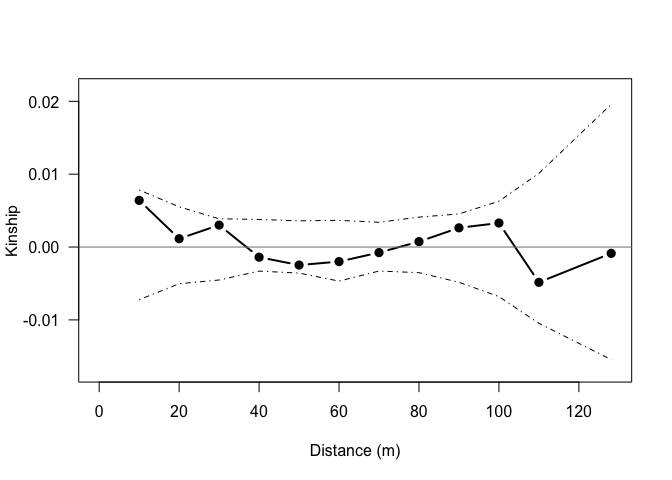
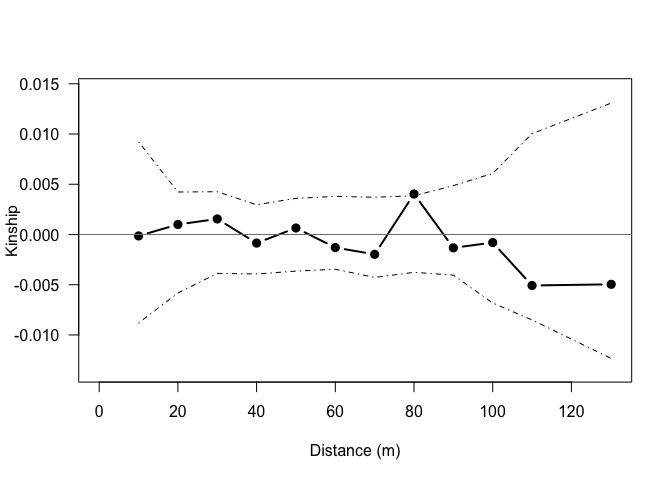
Update readme and ignore files

diff --git a/README.md b/README.md
@@ -31,7 +31,7 @@ Here's an example of a typical workflow...
 -   Input data into the sgs data structure using createSgsObj()
 -   Set desired distance intervals and number of permutations
 -   Run SGS analysis with sgs(), currently configured to run the kinship coefficient of Loiselle et al. 1995
--   use plotSgs() to make an autorcorrelation plot
+-   use plotSgs() to produce an autorcorrelation plot
 
 ``` r
 
@@ -57,45 +57,44 @@ library(sgsR)
     }
 
 ## Convert to sgsObj
-sgsObj = createSgsObj(sample_ids = dat$id, genotype_data = dat[, 4:(Nloci*2 + 3)],
-                    ploidy = 2,
-                    x_coords = dat$x, y_coords = dat$y)
-attributes(sgsObj)
-#> $names
-#>  [1] "ids"         "x"           "y"           "ploidy"      "Nind"       
-#>  [6] "Nloci"       "Ngenecopies" "gen_data"    "loci_names"  "gen_data_f" 
-#> [11] "Nallele"    
-#> 
-#> $class
-#> [1] "sgsObj"
+sgsObj = createSgsObj(sample_ids = dat$id, 
+                      genotype_data = dat[, 4:(Nloci*2 + 3)],
+                      ploidy = 2,
+                      x_coords = dat$x, 
+                      y_coords = dat$y)
 
 # Display genetic data
 head(sgsObj$gen_data)
 #>   Loc1_A Loc1_B Loc2_A Loc2_B Loc3_A Loc3_B Loc4_A Loc4_B Loc5_A Loc5_B
-#> 1      7      5      5      4     10      1      5      4      8      8
-#> 2      8      5      4      2      9      1      1     10     10      6
-#> 3      3      8      4      3      2     10      9      9      4      7
-#> 4      9      7      2      4      2      8      2      2     10     10
-#> 5      4      2      7     10      4      2      2      1     10      4
-#> 6      3      9      2      5      2      3      9      8      2      7
+#> 1      5      2      9      4      4      4      7      1      1      2
+#> 2      3      9     10     10      5      9      9      4     10      6
+#> 3      5      2      8      4     10      9      2      9      5      3
+#> 4      7      5     10      6     10      2     10      1      6      6
+#> 5      8      5      3      6      4      7      1      3      9      5
+#> 6      4      4      4     10      8      5      5      6      5      5
 #>   Loc6_A Loc6_B Loc7_A Loc7_B Loc8_A Loc8_B Loc9_A Loc9_B Loc10_A Loc10_B
-#> 1      1      7     10      9      7      9      8      6       5       6
-#> 2     10      2      2      8      3      8      4      9       8       4
-#> 3      4      7      7      6      1      1      5      4       1       5
-#> 4      6      6      4      9      2      4      6      1       6       6
-#> 5      8      8      1      1      2      5      4     10       3       9
-#> 6      9      7      6      3      5     10      3      3      10      10
+#> 1      5      9      5      5      3      3      2      2       2       6
+#> 2      8     10      1      9      4      8      4      9       5       6
+#> 3      2     10     10      7      5      8      7     10       7       9
+#> 4      2      8      8      1      4      2      4      7       4       4
+#> 5      5      9      1      3      7      8     10      2       3       9
+#> 6      8      6      9      3      8      4     10      9       1       8
 
 
 ## Run analysis
 distance_intervals = seq(10, 110, 10) # Set distance intervals
 
 out1 = sgs(sgsObj = sgsObj, distance_intervals = distance_intervals, nperm = 99)
-#> Adding an aditional distance interval -- 128.0867 -- to encompass all pairwise distances.. 
+#> Adding an aditional distance interval -- 130.1137 -- to encompass all pairwise distances.. 
 #> Working on permutation: 0...
 
+
+
+
+## Plotting results
+
 ## Solid line is Fij estimate for each distance class
-## Dashed lines are the 2.5 % and 97.5 % quantiles for permuted values
+## Dashed lines are the 2.5 % and 97.5 % quantiles of the permuted values
 plotSgs(out1)
 ```
 
@@ -104,61 +103,44 @@ plotSgs(out1)
 ``` r
 
 # Summary of information on distance classes
-out1$DIsummary
-#>                        [,1]      [,2]      [,3]      [,4]     [,5]
-#> Distance class     0.000000   1.00000   2.00000   3.00000   4.0000
-#> Max distance      10.000000  20.00000  30.00000  40.00000  50.0000
-#> Average distance   6.241301  15.40722  25.35529  35.23155  45.0197
-#> Number of pairs  155.000000 376.00000 568.00000 663.00000 751.0000
-#>                       [,6]      [,7]     [,8]      [,9]    [,10]    [,11]
-#> Distance class     5.00000   6.00000   7.0000   8.00000   9.0000  10.0000
-#> Max distance      60.00000  70.00000  80.0000  90.00000 100.0000 110.0000
-#> Average distance  54.93701  65.11901  74.8578  84.53017  94.3508 104.1537
-#> Number of pairs  662.00000 635.00000 496.0000 342.00000 192.0000  78.0000
-#>                     [,12]
-#> Distance class    11.0000
-#> Max distance     128.0867
-#> Average distance 116.7789
-#> Number of pairs   32.0000
+round(out1$DIsummary, 3)
+#>                     [,1]    [,2]    [,3]    [,4]    [,5]    [,6]    [,7]
+#> Distance class     0.000   1.000   2.000   3.000   4.000   5.000   6.000
+#> Max distance      10.000  20.000  30.000  40.000  50.000  60.000  70.000
+#> Average distance   6.407  15.578  25.245  35.046  45.027  55.091  65.033
+#> Number of pairs  140.000 365.000 540.000 615.000 686.000 683.000 609.000
+#>                     [,8]    [,9]   [,10]   [,11]   [,12]
+#> Distance class     7.000   8.000   9.000  10.000  11.000
+#> Max distance      80.000  90.000 100.000 110.000 130.114
+#> Average distance  74.986  84.783  94.563 104.218 116.444
+#> Number of pairs  520.000 381.000 244.000 114.000  53.000
 
 # Summary of information on estimated Kinship coefficient for each distance class (columns)
-out1$Fijsummary
-#>                   [,1]         [,2]          [,3]         [,4]
-#> Loc1_A    0.0237558428 -0.002462208 -0.0094959792  0.001924795
-#> Loc2_A    0.0198626816 -0.002304020  0.0123678287  0.004540861
-#> Loc3_A   -0.0003407009 -0.010649785 -0.0002491854  0.006998091
-#> Loc4_A    0.0119032776  0.007029250  0.0009330290  0.002315798
-#> Loc5_A   -0.0058055278 -0.006823549 -0.0037423435  0.010052198
-#> Loc6_A    0.0018560255  0.014216469  0.0001606579 -0.005835506
-#> Loc7_A   -0.0028061776 -0.007722525  0.0130401161 -0.009435172
-#> Loc8_A    0.0050973310  0.002283696  0.0143047823 -0.010299228
-#> Loc9_A    0.0038945405 -0.007067842  0.0017300559 -0.001095822
-#> Loc10_A   0.0066441614  0.024944881  0.0010885546 -0.013090606
-#> ALL LOCI  0.0064061447  0.001144432  0.0030137538 -0.001392459
-#>                   [,5]          [,6]          [,7]          [,8]
-#> Loc1_A   -7.709755e-05 -0.0028043154  0.0062882029 -0.0008117849
-#> Loc2_A   -4.783158e-03 -0.0023113398 -0.0122727090 -0.0068304008
-#> Loc3_A   -2.303472e-03  0.0010664653 -0.0027740463 -0.0039491039
-#> Loc4_A   -4.733878e-03 -0.0007023494 -0.0078601046 -0.0024615531
-#> Loc5_A   -2.774844e-03  0.0032171591 -0.0049831741  0.0003328249
-#> Loc6_A   -1.347182e-03  0.0007636534  0.0095534744  0.0027207553
-#> Loc7_A   -3.885350e-03 -0.0030436206  0.0061925938 -0.0036150196
-#> Loc8_A    3.872400e-03 -0.0075903297 -0.0091410568  0.0058972407
-#> Loc9_A   -7.741791e-03  0.0030272054  0.0062378077  0.0052760653
-#> Loc10_A  -9.726908e-04 -0.0115862982  0.0011726123  0.0108754151
-#> ALL LOCI -2.474702e-03 -0.0019963761 -0.0007586374  0.0007434437
-#>                   [,9]         [,10]        [,11]         [,12]
-#> Loc1_A   -0.0020166556  0.0108379526 -0.027779466 -2.790866e-03
-#> Loc2_A    0.0105467476  0.0065459241  0.010221006  1.212296e-02
-#> Loc3_A    0.0111853369  0.0068393745 -0.008687842  1.363918e-02
-#> Loc4_A    0.0024122228  0.0155052962  0.007187929 -1.996369e-02
-#> Loc5_A    0.0053088753  0.0012169111  0.001349859 -1.817272e-02
-#> Loc6_A   -0.0193969738 -0.0063013234 -0.034363575 -7.194886e-05
-#> Loc7_A    0.0153912622  0.0030012184 -0.014595323 -1.598545e-03
-#> Loc8_A    0.0056812624  0.0025798029 -0.012774367  2.078128e-02
-#> Loc9_A   -0.0004138907  0.0001198648  0.010273156 -1.187416e-02
-#> Loc10_A  -0.0023475701 -0.0073651900  0.020770593 -7.281457e-04
-#> ALL LOCI  0.0026350562  0.0032979837 -0.004839804 -8.656670e-04
+round(out1$Fijsummary, 3)
+#>            [,1]   [,2]   [,3]   [,4]   [,5]   [,6]   [,7]   [,8]   [,9]
+#> Loc1_A    0.002  0.017 -0.003  0.009 -0.005 -0.001 -0.004  0.005  0.001
+#> Loc2_A    0.014 -0.015  0.001 -0.001  0.002 -0.001 -0.004  0.002  0.008
+#> Loc3_A   -0.002  0.005  0.001  0.001 -0.004 -0.002  0.000  0.003 -0.001
+#> Loc4_A   -0.018 -0.001  0.009 -0.006  0.007 -0.011 -0.006  0.002  0.012
+#> Loc5_A   -0.028 -0.008  0.002  0.011 -0.005 -0.001  0.002  0.012 -0.003
+#> Loc6_A    0.010  0.011  0.000 -0.004 -0.001 -0.001 -0.010  0.010 -0.002
+#> Loc7_A   -0.002 -0.003 -0.011 -0.002  0.010  0.000  0.000  0.006 -0.001
+#> Loc8_A    0.001  0.004  0.011 -0.003 -0.002  0.003 -0.002  0.003 -0.006
+#> Loc9_A    0.034  0.004  0.004 -0.005 -0.001 -0.001  0.007 -0.008 -0.015
+#> Loc10_A  -0.014 -0.005  0.001 -0.007  0.005  0.002 -0.002  0.005 -0.005
+#> ALL LOCI  0.000  0.001  0.002 -0.001  0.001 -0.001 -0.002  0.004 -0.001
+#>           [,10]  [,11]  [,12]
+#> Loc1_A   -0.011 -0.019 -0.026
+#> Loc2_A    0.010  0.001 -0.013
+#> Loc3_A   -0.012  0.021 -0.015
+#> Loc4_A    0.006  0.010 -0.025
+#> Loc5_A   -0.009 -0.017 -0.010
+#> Loc6_A    0.005 -0.029  0.030
+#> Loc7_A    0.001 -0.012  0.013
+#> Loc8_A   -0.005 -0.015 -0.035
+#> Loc9_A    0.004  0.004 -0.003
+#> Loc10_A   0.002  0.004  0.034
+#> ALL LOCI -0.001 -0.005 -0.005
 ```
 
 =================
